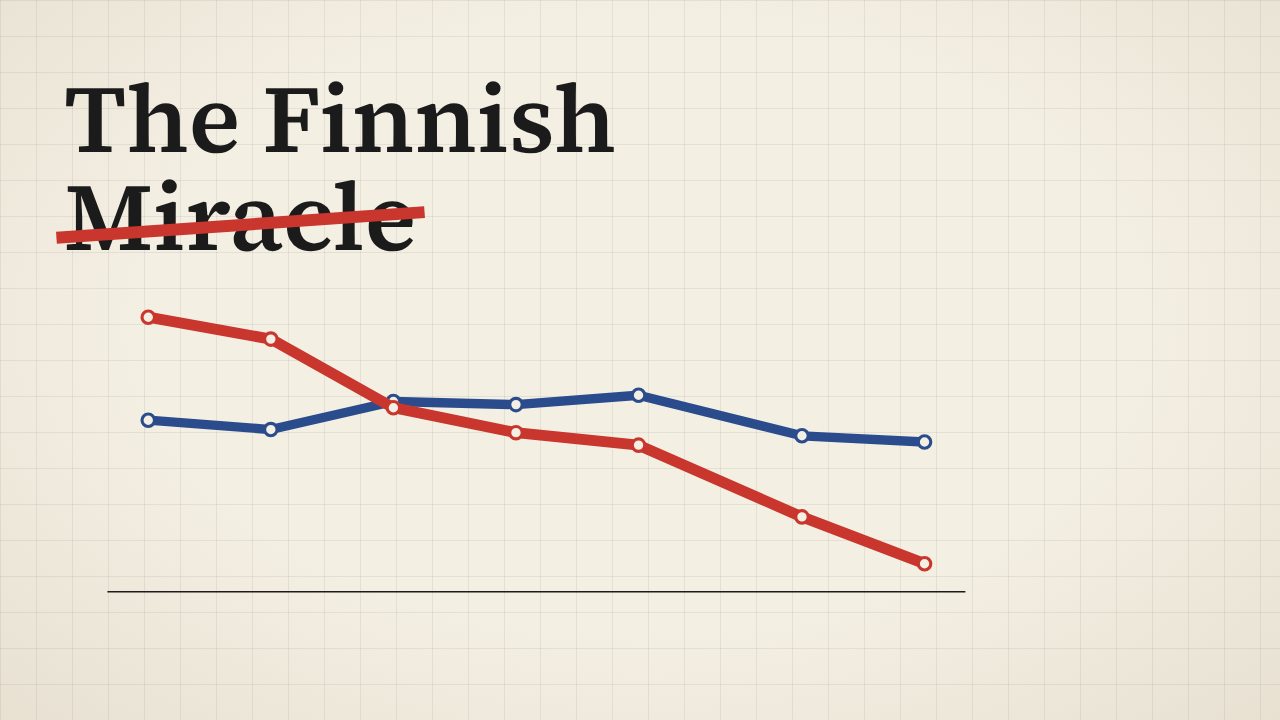
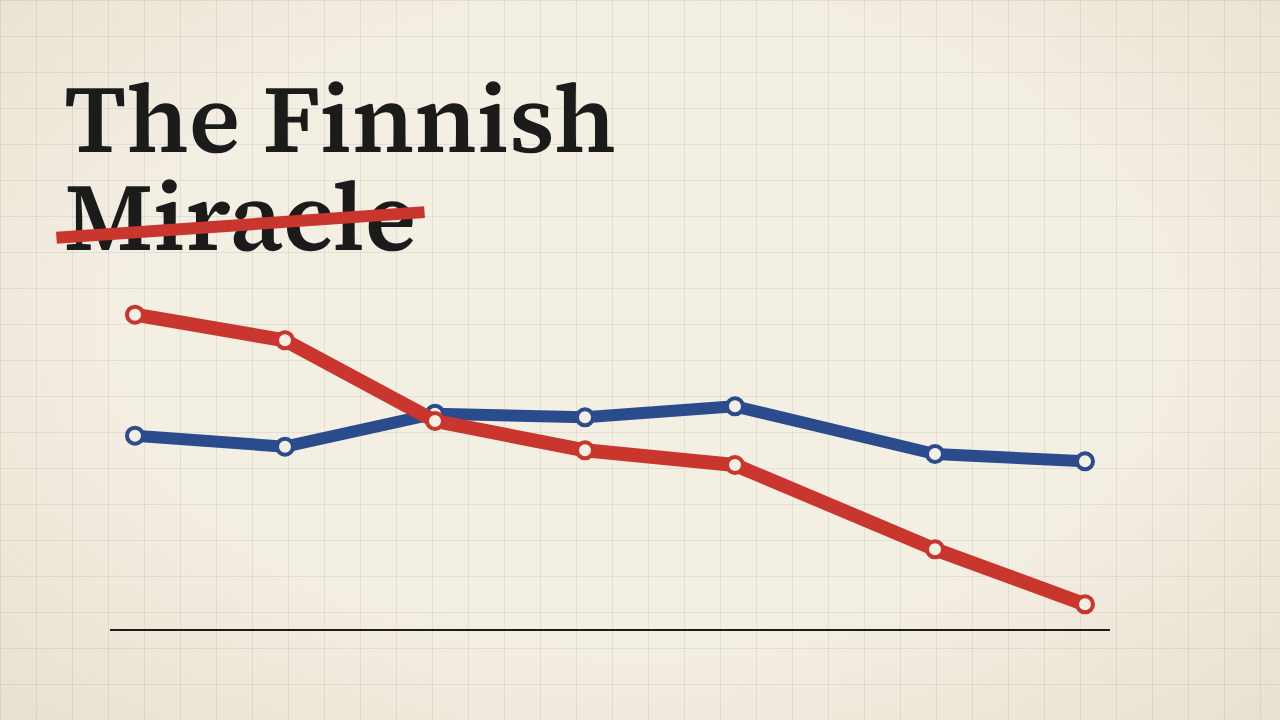
Episode 01: final thumbnails and QA checklist
Claude-Session: https://claude.ai/code/session_01D9RW6CaN4dZF5eXj5jk5tj

Changed region(s): [[0.0938, 0.4583, 0.875, 0.8556], [0.0938, 0.4278, 0.1875, 0.4583]]

diff --git a/episodes/01-finland/out/qa_checklist.md b/episodes/01-finland/out/qa_checklist.md
@@ -1,0 +1,26 @@
+# Pre-release checklist (CLAUDE.md §12) — Episode 01
+
+| Item | Result | Notes |
+|---|---|---|
+| Every number is in `facts.md` and checked against a primary source | △ | Every number is in facts.md (on-screen numbers checked mechanically). **But** oecd.org and other primary sites are blocked in this environment, so values were confirmed via the primary pages' text seen in search results. Re-check the tables directly before release (factcheck.md §6) |
+| There is a Counterpoint chapter | ✅ | 11:59–13:09 (Japan's self-reports, Zhao's critique, Finland still above average) |
+| No banned phrases left in the script | ✅ | `tools/check_banned.py`: 0 hits |
+| Every data scene has a source tag | ✅ | Bottom-left `SourceTag` on every data scene. Text-only scenes (S05, S07, S12, S22, S33, S34) carry no data |
+| No AI-generated images | ✅ | Everything is code-drawn charts and maps (Natural Earth). Narration is TTS |
+| No static shot longer than 6 s | ✅ | `tools/make_storyboard.py` pacing check: max 6.3 s between cues, and those scenes have in-cue animation plus continuous camera moves |
+| Audio and subtitles in sync | ✅ | Word-level alignment (95.0% match). Measured offset between the video's audio and the narration: 40 ms. Visual check at the "469" cue |
+| BGM doesn't compete with narration | ✅ | BGM RMS −43.4 dBFS vs speech −21.4 dBFS (22 dB lower). Final mix −14.2 LUFS |
+| `credits.csv` complete | ✅ | TTS, alignment model, BGM (in-house), map, fonts, Remotion |
+| 3 thumbnails, 3 titles, description (chapters and sources) | ✅ | `thumb1-3.png`, `youtube.md` |
+| YouTube synthetic-content disclosure | ⚠ Needs a human | Narration is a synthetic voice, and the description says so. YouTube's "altered or synthetic content" setting is not strictly required for a synthetic voice that doesn't imitate a real person, but check the latest rules at upload |
+
+## Output specs
+- `episode01_finland.mp4`: 1920×1080, 30 fps, H.264, AAC 48 kHz stereo, 14:24, −14.2 LUFS
+- `episode01_finland.srt`: 279 cues
+- The mp4 and wav files are excluded from git because of GitHub's 100 MB limit (`.gitignore`). Regenerate with `node tools/render.mjs episodes/01-finland video …` followed by loudness normalisation
+
+## Deviations from the Channel Bible (environment constraints)
+1. **Basemap:** NASA Blue Marble / Black Marble could not be fetched (network block). Replaced with a dark vector basemap from Natural Earth.
+2. **BGM:** YouTube Audio Library was unreachable. Replaced with an ambient pad generated in code (`tools/make_bgm.py`).
+3. **Forced alignment:** whisper models are on blocked hosts. Word timestamps come from sherpa-onnx (zipformer) ASR instead, matched against the known script.
+4. **STOP checkpoints:** after STOP 1, the user said "随時君が修正して" (fix as you go), so STOP 2–4 were not held.
